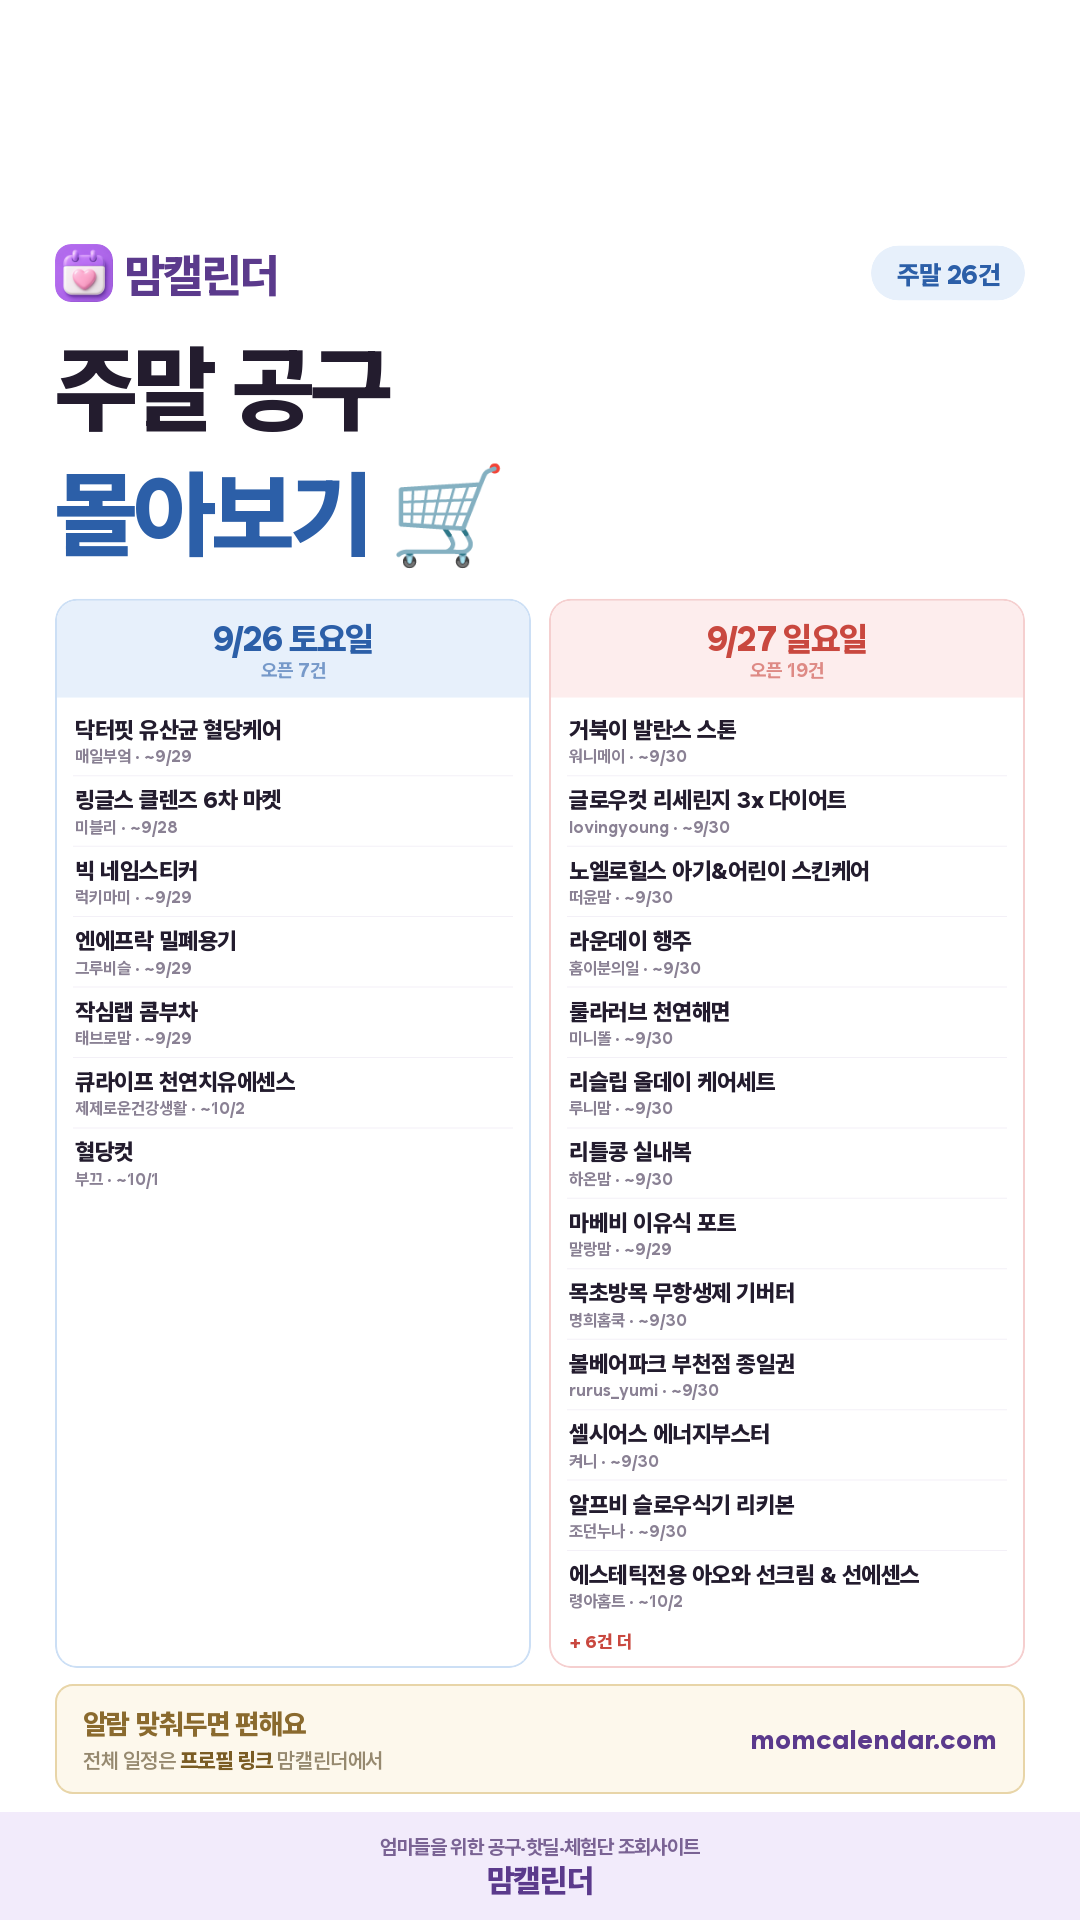
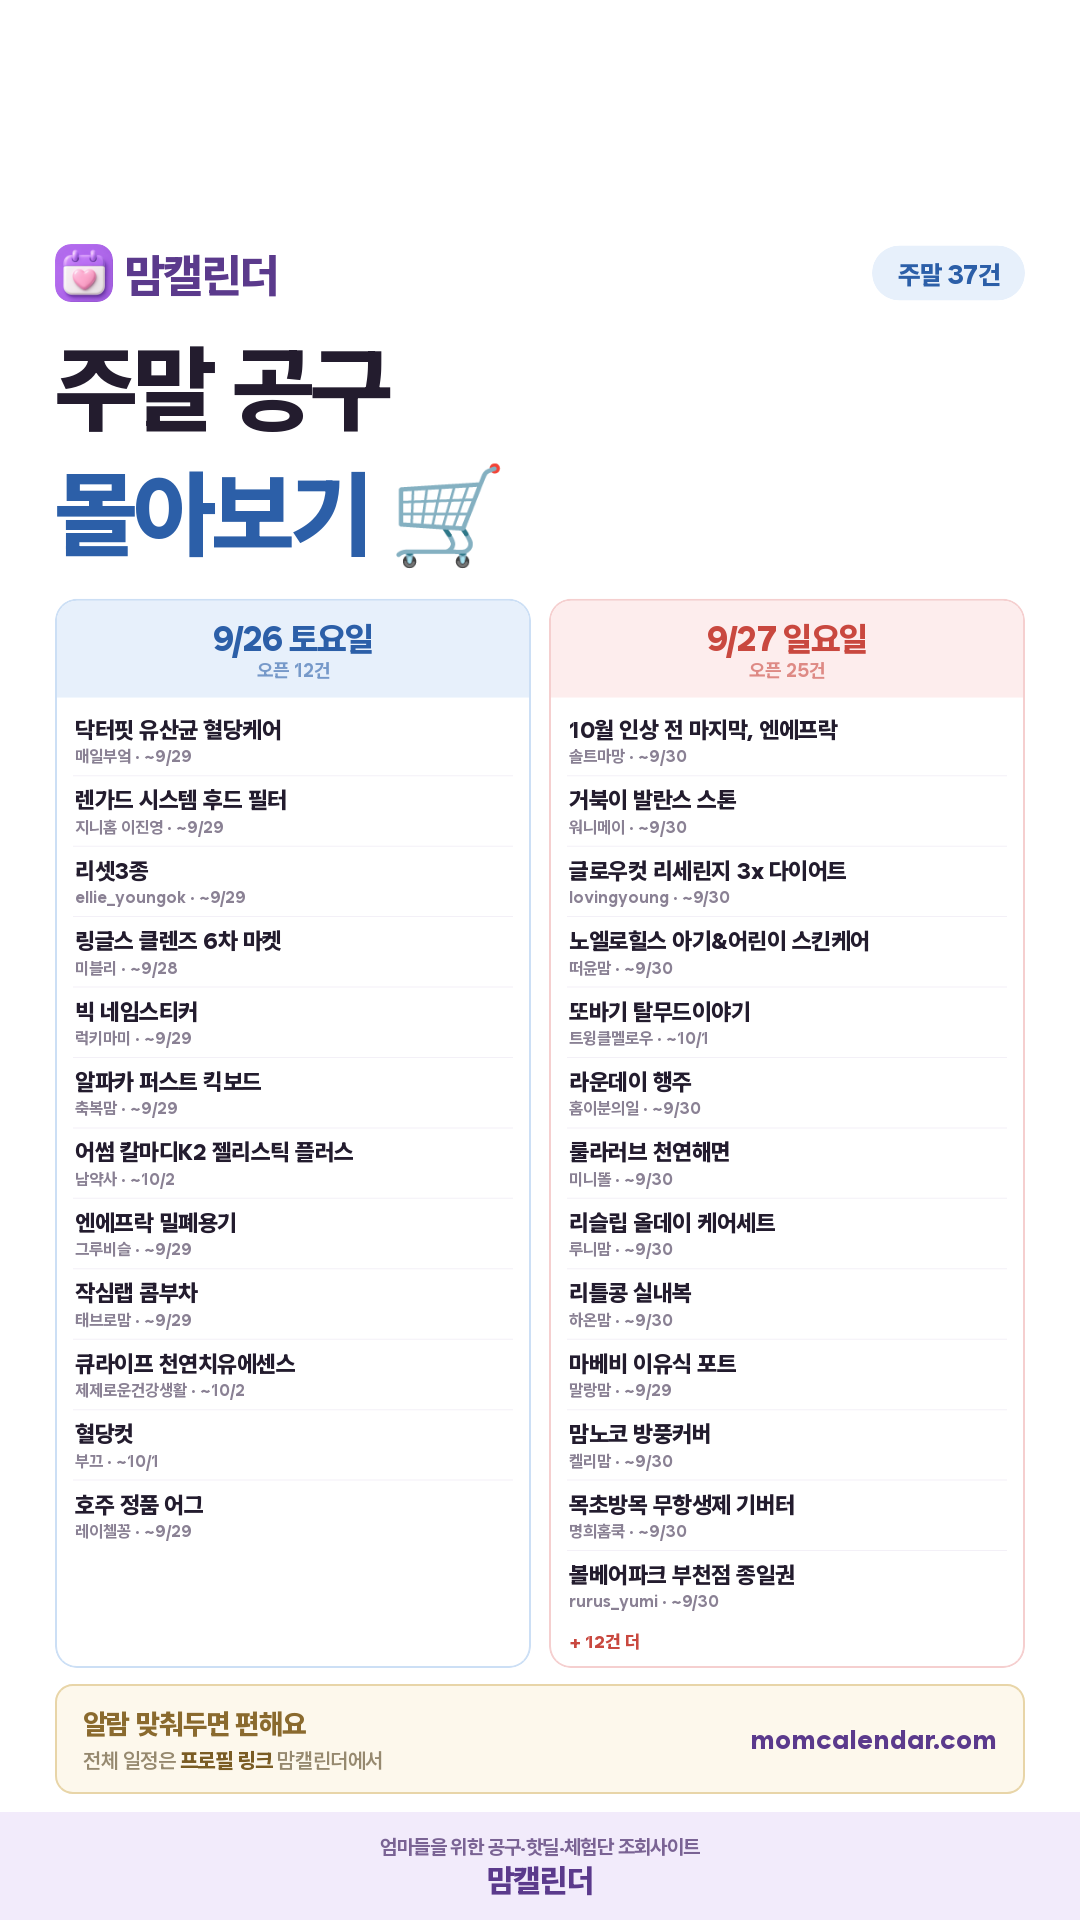
아침 인스타 카드 (2026-09-25)

diff --git a/daily/2026-09-25.html b/daily/2026-09-25.html
@@ -19,7 +19,7 @@ textarea{width:100%;height:260px;border:1px solid #E3DCEF;border-radius:10px;pad
 .todo p{font-size:12.5px;color:#6B6379;line-height:1.75;margin-top:6px}
 .todo a{color:#5B2E8C;font-weight:700}
 </style></head><body>
-<div class="hd"><div class="wrap"><h1>9월 25일(금) 인스타 카드</h1><p>주말 몰아보기 · sat 7 · sun 19</p></div></div>
+<div class="hd"><div class="wrap"><h1>9월 25일(금) 인스타 카드</h1><p>주말 몰아보기 · sat 12 · sun 25</p></div></div>
 <div class="wrap">
   
   <div class="card"><img src="./2026-09-25.png" alt="오늘 공구 카드"></div>
@@ -27,42 +27,57 @@ textarea{width:100%;height:260px;border:1px solid #E3DCEF;border-radius:10px;pad
   <div class="card">
     <textarea id="cap" readonly>이번 주말엔 이런 공구가 열려요
 
-주말 오픈 예정 26건 — 미리 저장해두세요
+주말 오픈 예정 37건 — 미리 저장해두세요
 
 ━━━━━━━━━━━━━━
 
 🗓 9/26(토) 오픈
 · 닥터핏 유산균 혈당케어 — 매일부엌 (~9/29)
+· 렌가드 시스템 후드 필터 — 지니홈 이진영 (~9/29)
+· 리셋3종 — ellie_youngok (~9/29)
 · 링글스 클렌즈 6차 마켓 — 미블리 (~9/28)
 · 빅 네임스티커 — 럭키마미 (~9/29)
+· 알파카 퍼스트 킥보드 — 축복맘 (~9/29)
+· 어썸 칼마디K2 젤리스틱 플러스 — 남약사 (~10/2)
 · 엔에프락 밀폐용기 — 그루비슬 (~9/29)
 · 작심랩 콤부차 — 태브로맘 (~9/29)
 · 큐라이프 천연치유에센스 — 제제로운건강생활 (~10/2)
 · 혈당컷 — 부끄 (~10/1)
+· 호주 정품 어그 — 레이첼꽁 (~9/29)
 
 🗓 9/27(일) 오픈
+· 10월 인상 전 마지막, 엔에프락 — 솔트마망 (~9/30)
 · 거북이 발란스 스톤 — 워니메이 (~9/30)
 · 글로우컷 리세린지 3x 다이어트 — lovingyoung (~9/30)
 · 노엘로힐스 아기&amp;어린이 스킨케어 — 떠윤맘 (~9/30)
+· 또바기 탈무드이야기 — 트윙클멜로우 (~10/1)
 · 라운데이 행주 — 홈이분의일 (~9/30)
 · 룰라러브 천연해면 — 미니똘 (~9/30)
 · 리슬립 올데이 케어세트 — 루니맘 (~9/30)
 · 리틀콩 실내복 — 하온맘 (~9/30)
 · 마베비 이유식 포트 — 말랑맘 (~9/29)
+· 맘노코 방풍커버 — 켈리맘 (~9/30)
 · 목초방목 무항생제 기버터 — 명희홈쿡 (~9/30)
 · 볼베어파크 부천점 종일권 — rurus_yumi (~9/30)
+· 세계 1등 진진스 생강캔디 3차 — 몰리짱 (~10/4)
 · 셀시어스 에너지부스터 — 켜니 (~9/30)
 · 알프비 슬로우식기 리키본 — 조던누나 (~9/30)
 · 에스테틱전용 아오와 선크림 &amp; 선에센스 — 령아홈트 (~10/2)
 · 완벽 물때 제거제 — 멋쓰랩 (~9/30)
 · 임자네 떡볶이 — 송엘라 (~9/30)
+· 키머즈 캐리어 트라이크 — 위캔드홈 (~9/30)
 · 키자니아 직업체험 입장권 — _onioni.mom (~9/30)
 · 퓨리톡스 멀티 세정 티슈 7차 — 그집1303 (~9/30)
 · 한입 샐러드 젤리 — __a.fit.__ (~10/4)
+· 허그파파 Pro — 캉캉 (~9/30)
 · 홍삼정 데일리타임 — 몽땅잡화점 (~9/30)
 
 🔓 오늘 오픈 중
 · 까르엠 030 스윙 모듈 소파 2차 — 헤이홈 (~9/28)
+· 라이트컷 14차 — 곰부인네 (~9/28)
+· 로이첸 한강라면 원터치 조리기 — 몰리짱 (~9/30)
+· 맘이가요 추석 홀리데이 키친 위크 — 맘이가요 (~9/28)
+· 메쉬 지퍼파우치 — 장소정 (~9/28)
 · 셀린느 르 루즈 매트 립밤 — mimiwor (~10/1)
 · 아늠달걀 유기농사료 방사 1번란 19차 — 젤로핏 (~9/28)
 · 엔그로운 원목 독서대 — 캔디맘 (~9/26)
@@ -91,12 +106,12 @@ textarea{width:100%;height:260px;border:1px solid #E3DCEF;border-radius:10px;pad
 ⚠ 공구 일정은 판매자 사정에 따라 변경·조기마감될 수 있어요.
 
 #맘캘린더 #공구일정 #육아공구 #9월25일공구 #책육아 #육아정보 #아기용품 #교구 #공구정보 #먹거리공구 #공동구매 #오늘의공구</textarea>
-    <div class="meta">1509자</div>
+    <div class="meta">1961자</div>
     <button class="btn btn2" onclick="cp('cap','캡션')">캡션 복사</button>
   </div>
   <div class="card">
     <div class="meta" style="margin:0 0 8px;font-weight:800;color:#5B2E8C">네이버 블로그용 (blog.naver.com/momcal) — 수정해서 쓰셔도 돼요</div>
-    <textarea id="btitle" style="height:54px">9월 25일(금) 육아템 인스타 공구 찾는법 | 엘레나 유산균·셀린느 루즈·클린디·아늠달걀 공구 오픈</textarea>
+    <textarea id="btitle" style="height:54px">9월 25일(금) 육아템 인스타 공구 찾는법 | 라이트컷·엘레나 유산균·로이첸·맘이가요 공구 오픈</textarea>
     <button class="btn btn2" onclick="cp('btitle','블로그 제목')">블로그 제목 복사</button>
     <textarea id="bbody" style="margin-top:9px">
 
@@ -123,26 +138,51 @@ https://open.kakao.com/o/gr2kJhCh
 
 ─────────────
 
-9월 25일(금) 공구 오픈 소식이에요. 오늘 올라온 9건을 정리해 뒀어요.
-오늘 마감되는 공구도 26건 있으니 놓치지 마세요.
+9월 25일(금) 공구 오픈 소식이에요. 오늘 올라온 14건을 정리해 뒀어요.
+오늘 마감되는 공구도 53건 있으니 놓치지 마세요.
 
-■ 오늘 끝나는 공구 26건
+■ 오늘 끝나는 공구 53건
+· 26년 신상 윈터스톰 덕다운 롱패딩 — 또후니맘
+· 가을 베딩 — 올리비아홈
 · 나비북스 퍼니블록 레고 — 솔맘
 · 또비앙또 미아방지가방 — 우유맘
+· 라마다 &amp;씨원 자은도 — 지원이랑놀자
+· 라포레 쿠킹웨어 — 홈앤홈
 · 람보르기니 킥보드 — 짱구맘
 · 래디어스 — 이준맘(이보람)
 · 럽마이펫 진공미용기 — 견생대박태안이네
+· 로긴 304 올스텐 3단 빨래바구니 — 에루홈
+· 리틀모엘 미아방지 목걸이 — 뽀물맘
+· 모로오렌지 4차 — 세렌디핏
+· 모제이 더블버튼 가디건 — 마인드풀채
+· 무타공 욕실선반 SPACE RACK — 위캔드홈
+· 바바북스 명화 랜덤2권 — 룰루맘
+· 바스 특별 — 베러심플
 · 베베추피 — 건이맘
+· 보만 진공 쌀통 — 디유
+· 샵한현재 프로 멜팅 립밤 3종 — 미니결
+· 솜사탕 폼폼블랭킷 — ddok.ping
 · 쉐프윈 18종 — 쏘소담
 · 쉐프윈 316 32cm 파티웍 — 페이보릿
 · 스닐로스티치 보냉백&amp;여행용백 — gooomzybusy
+· 스토피아 확장형 올스텐304 식기건조대 — 더캄맘
+· 아이앤어스 3챔버&amp;독일더마 캡슐세제 — 셔니
+· 알텐바흐 엑스쿠첸 316Ti 저압냄비 — 지니하우스
+· 야물야물 &amp; 똑쟁아기 — 산콩맘
+· 어린이홍삼 — 루나맘
+· 에그스쿨 영어유치원 — 핫세맘
 · 에스트라 온가족 안심 크림 — 유영비
 · 엑사이더 런닝바이크 15차 — 헬썬
+· 엘레나 캡슐 &amp; 스틱 — 아이엠약사
+· 옴모크레용 6색 &amp; 12색 &amp; 스케치북 — 이현찰퐁맘
 · 요거쪽쪽 — 산들맘
+· 우키 슈로스바 — 리블리홈
 · 윈덤 고성 — 여행특가 말랑맘
 · 유니케어 얼룩제거제 — 맘캘린더
 · 주니 도라에몽 미니텀블러 1+1 — 주원맘
 · 주니 벨리곰 빨대컵 — 뚝딱맘
+· 캐논 복합기 G3915 — 오프유
+· 케라타 기저귀 봉투 — gooomzybusy
 · 키즈위드 이야기시네마 플러스 그림자극장 — 우유맘
 · 킨즈 마이베이비북 — 메이브온
 · 킨즈n르베르 원목교구 — 리아곰
@@ -151,10 +191,12 @@ https://open.kakao.com/o/gr2kJhCh
 · 폴리 장난감 2종 — 솔맘
 · 하우투캐치 — 류둥이네
 · 하이올레익 유기농 해바라기씨유 — 썬이맘
+· 호주 어그 시리즈 — 쓰리빈즈
 · 화덕브레드 — minjoy_____
+· 확장형 식기건조대 — 라리나홈
 · 휴대용 전기포트 추석깜공 — 째째홈
 
-■ 오늘 오픈하는 공구 9건
+■ 오늘 오픈하는 공구 14건
 
 [육아]
 · 엔그로운 원목 독서대 — 캔디맘 (~9/26 마감)
@@ -162,27 +204,36 @@ https://open.kakao.com/o/gr2kJhCh
 · 추피의 생활이야기 한글판 — 서점맘 (~9/27 마감)
 · 픽토리 감정 6종 — 소프트모노 (~9/27 마감)
 
+[리빙]
+· 로이첸 한강라면 원터치 조리기 — 몰리짱 (~9/30 마감)
+· 맘이가요 추석 홀리데이 키친 위크 — 맘이가요 (~9/28 마감)
+
 [식품]
 · 아늠달걀 유기농사료 방사 1번란 19차 — 젤로핏 (~9/28 마감)
 
 [건강]
+· 라이트컷 14차 — 곰부인네 (~9/28 마감)
 · 엘레나 유산균 — 린쥬하니 (~9/27 마감)
 
 [뷰티]
+· 브릴리에잇 에어리스 쿠션 25차 — 곰부인네 (~9/28 마감)
 · 셀린느 르 루즈 매트 립밤 — mimiwor (~10/1 마감)
 · 클린디 칫솔 소독기 — 우유맘 (~9/29 마감)
+
+[패션]
+· 메쉬 지퍼파우치 — 장소정 (~9/28 마감)
 
 [인테리어]
 · 까르엠 030 스윙 모듈 소파 2차 — 헤이홈 (~9/28 마감)
 
-■ 오늘의 브랜드: 엘레나
-· 엘레나 공구는 인스타 셀러들이 기간을 정해 여는 공동구매예요. 최근에는 린쥬하니, 레미맘, 러브미우 님이 진행했어요.
+■ 오늘의 브랜드: 라이트컷
+· 라이트컷 공구는 인스타 셀러들이 기간을 정해 여는 공동구매예요. 최근에는 곰부인네 님이 진행했어요.
 · 가격은 오픈일에 셀러 계정 공지로 공개돼요. 같은 제품이라도 셀러·구성에 따라 조금씩 달라서, 공지에서 확인하는 게 가장 정확해요.
-· 이번에 놓쳤다면 너무 아쉬워하지 마세요. 엘레나 공구는 보통 일정 간격을 두고 다시 열려요. 전체 일정은 여기서 → https://momcalendar.com
+· 이번에 놓쳤다면 너무 아쉬워하지 마세요. 라이트컷 공구는 보통 일정 간격을 두고 다시 열려요. 전체 일정은 여기서 → https://momcalendar.com
 
 ※ 일정과 가격은 셀러 사정으로 바뀔 수 있어요. 결제 전에 셀러 계정 공지를 꼭 다시 확인해 주세요.
 
-#공구일정 #인스타공구 #인스타공구일정 #공동구매 #오늘의공구 #육아공구 #육아템 #공구모음 #엘레나공구 #셀린느공구 #클린디공구 #아늠달걀공구 #엔그로운공구 #웅진공구 #추피의공구 #픽토리공구</textarea>
+#공구일정 #인스타공구 #인스타공구일정 #공동구매 #오늘의공구 #육아공구 #육아템 #공구모음 #라이트컷공구 #엘레나공구 #로이첸공구 #맘이가요공구 #브릴리에잇공구 #셀린느공구 #클린디공구 #아늠달걀공구</textarea>
     <button class="btn" onclick="cp('bbody','블로그 본문 전체')">블로그 본문 전체 복사 (태그 포함)</button>
     <div class="meta">순서: 사진 저장 → 블로그 앱 글쓰기 → 제목 붙여넣기 → 본문 붙여넣기 → 본문 맨 위에 사진 추가 → 발행. 끝의 #태그들은 자동으로 태그가 돼요</div>
   </div>

diff --git a/daily/today.html b/daily/today.html
@@ -1,15 +1,15 @@
 <!DOCTYPE html><html lang="ko"><head>
 <meta charset="UTF-8"><meta name="viewport" content="width=device-width,initial-scale=1">
 <meta name="robots" content="noindex,nofollow">
-<title>9/24(목) 오늘 공구 캘린더</title>
-<meta property="og:title" content="9/24(목) 오늘 공구 캘린더">
-<meta property="og:image" content="https://momcalendar.com/daily/today.png?v=2026-09-24">
+<title>9/25(금) 오늘 공구 캘린더</title>
+<meta property="og:title" content="9/25(금) 오늘 공구 캘린더">
+<meta property="og:image" content="https://momcalendar.com/daily/today.png?v=2026-09-25">
 <style>body{margin:0;background:#F6F4F9;font-family:-apple-system,BlinkMacSystemFont,'Apple SD Gothic Neo','Malgun Gothic',sans-serif;text-align:center}
 h1{font-size:17px;color:#4A1A78;padding:14px 0 10px;margin:0}
 img{width:100%;max-width:540px;display:block;margin:0 auto;border-radius:12px;box-shadow:0 2px 12px rgba(96,32,144,.12)}
 p{font-size:12.5px;color:#8A8A8A;padding:12px}</style></head><body>
 <p style="margin:0;padding:10px 14px;background:#FFE9E9;color:#B3261E;font-size:13px;font-weight:700;line-height:1.5">⚠ 🔴 사이트 오류 레이더 1건: 우회로 중 서버5xx 1h 0·24h 2 — 세션에서 select * from error_radar()</p>
-<h1>9/24(목) 오늘 공구 캘린더</h1>
-<img src="./today.png?v=1790211130711" alt="9/24(목) 오늘 공구 캘린더">
+<h1>9/25(금) 오늘 공구 캘린더</h1>
+<img src="./today.png?v=1790297217681" alt="9/25(금) 오늘 공구 캘린더">
 <p>매일 아침 자동으로 새로 그려집니다 · <a href="https://momcalendar.com">맘캘린더</a></p>
 </body></html>

diff --git a/daily/index.html b/daily/index.html
@@ -1,1 +1,1 @@
-<!DOCTYPE html><meta charset="UTF-8"><meta http-equiv="refresh" content="0;url=./2026-09-24.html">
+<!DOCTYPE html><meta charset="UTF-8"><meta http-equiv="refresh" content="0;url=./2026-09-25.html">
